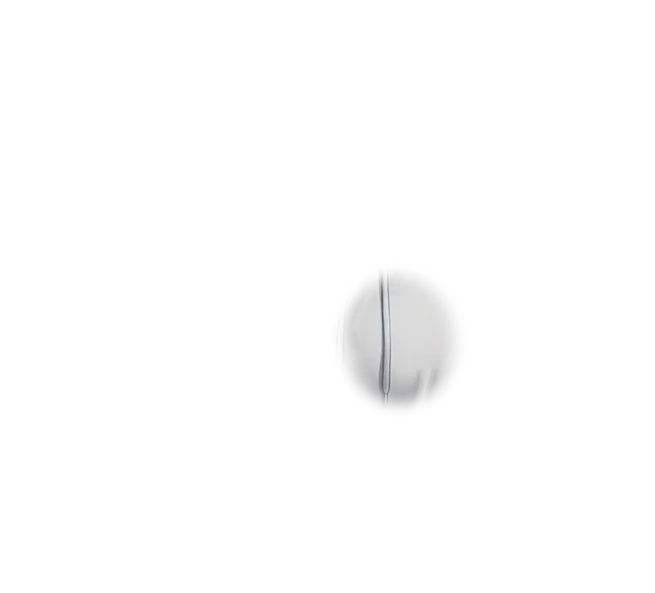
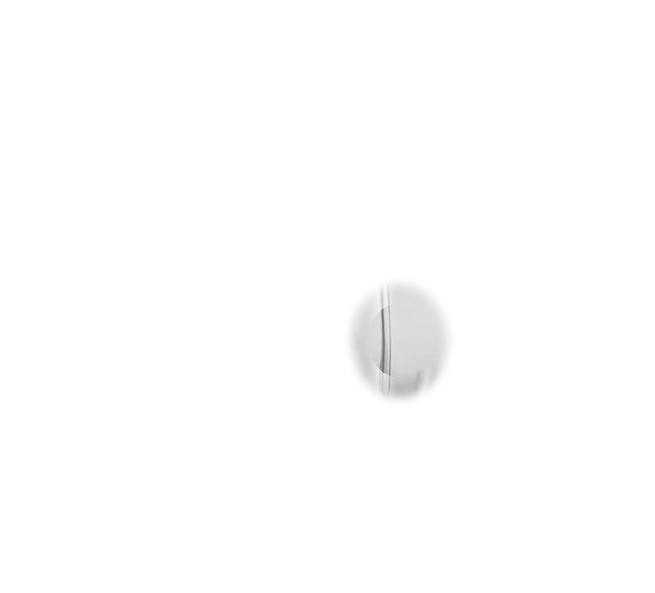
realism: эмоции дня 1 и 2 слоем глаз (полоса глаз), подгонка яркости/резкости, маска груди гасится у контуров ткани

Changed region(s): [[0.5191, 0.6071, 0.6718, 0.6981], [0.5496, 0.4553, 0.6107, 0.516], [0.5191, 0.516, 0.5496, 0.5767]]

diff --git a/index.html b/index.html
@@ -1007,31 +1007,31 @@ main{
    поэтому переход между ними линейный и не видно ступенек. */
 @keyframes chestJiggle{
   0% { transform:translateY(0.000%) scale(1.0000, 1.0000); }
-  4% { transform:translateY(0.932%) scale(0.9667, 1.0577); }
-  8% { transform:translateY(1.341%) scale(0.9521, 1.0830); }
-  12% { transform:translateY(1.264%) scale(0.9549, 1.0782); }
-  16% { transform:translateY(0.860%) scale(0.9693, 1.0532); }
-  20% { transform:translateY(0.334%) scale(0.9881, 1.0207); }
-  24% { transform:translateY(-0.134%) scale(1.0048, 0.9917); }
-  28% { transform:translateY(-0.431%) scale(1.0154, 0.9733); }
-  32% { transform:translateY(-0.525%) scale(1.0187, 0.9675); }
-  36% { transform:translateY(-0.447%) scale(1.0160, 0.9723); }
-  40% { transform:translateY(-0.268%) scale(1.0096, 0.9834); }
-  44% { transform:translateY(-0.066%) scale(1.0024, 0.9959); }
-  48% { transform:translateY(0.096%) scale(0.9966, 1.0060); }
-  52% { transform:translateY(0.186%) scale(0.9934, 1.0115); }
-  56% { transform:translateY(0.199%) scale(0.9929, 1.0123); }
-  60% { transform:translateY(0.153%) scale(0.9945, 1.0095); }
-  64% { transform:translateY(0.078%) scale(0.9972, 1.0048); }
-  68% { transform:translateY(0.003%) scale(0.9999, 1.0002); }
-  72% { transform:translateY(-0.051%) scale(1.0018, 0.9968); }
-  76% { transform:translateY(-0.076%) scale(1.0027, 0.9953); }
-  80% { transform:translateY(-0.073%) scale(1.0026, 0.9955); }
-  84% { transform:translateY(-0.050%) scale(1.0018, 0.9969); }
-  88% { transform:translateY(-0.020%) scale(1.0007, 0.9987); }
-  92% { transform:translateY(0.007%) scale(0.9998, 1.0004); }
-  96% { transform:translateY(0.024%) scale(0.9991, 1.0015); }
-  100% { transform:translateY(0.030%) scale(0.9989, 1.0019); }
+  4% { transform:translateY(1.118%) scale(0.9600, 1.0692); }
+  8% { transform:translateY(1.609%) scale(0.9425, 1.0996); }
+  12% { transform:translateY(1.517%) scale(0.9459, 1.0938); }
+  16% { transform:translateY(1.032%) scale(0.9632, 1.0638); }
+  20% { transform:translateY(0.401%) scale(0.9857, 1.0248); }
+  24% { transform:translateY(-0.161%) scale(1.0058, 0.9900); }
+  28% { transform:translateY(-0.517%) scale(1.0185, 0.9680); }
+  32% { transform:translateY(-0.630%) scale(1.0224, 0.9610); }
+  36% { transform:translateY(-0.536%) scale(1.0192, 0.9668); }
+  40% { transform:translateY(-0.322%) scale(1.0115, 0.9801); }
+  44% { transform:translateY(-0.079%) scale(1.0029, 0.9951); }
+  48% { transform:translateY(0.115%) scale(0.9959, 1.0072); }
+  52% { transform:translateY(0.223%) scale(0.9921, 1.0138); }
+  56% { transform:translateY(0.239%) scale(0.9915, 1.0148); }
+  60% { transform:translateY(0.184%) scale(0.9934, 1.0114); }
+  64% { transform:translateY(0.094%) scale(0.9966, 1.0058); }
+  68% { transform:translateY(0.004%) scale(0.9999, 1.0002); }
+  72% { transform:translateY(-0.061%) scale(1.0022, 0.9962); }
+  76% { transform:translateY(-0.091%) scale(1.0032, 0.9944); }
+  80% { transform:translateY(-0.088%) scale(1.0031, 0.9946); }
+  84% { transform:translateY(-0.060%) scale(1.0022, 0.9963); }
+  88% { transform:translateY(-0.024%) scale(1.0008, 0.9984); }
+  92% { transform:translateY(0.008%) scale(0.9998, 1.0005); }
+  96% { transform:translateY(0.029%) scale(0.9989, 1.0018); }
+  100% { transform:translateY(0.036%) scale(0.9987, 1.0023); }
 }
 .hero .art-chest.hit i{ animation:chestJiggle 1.5s linear; }
 /* дыхание: на 4-й стадии грудь тяжелее — дышит заметнее */
@@ -1837,7 +1837,8 @@ function emoPath(day, tag, mood){
   if (!ART_REAL) return `assets/art_emo_${day === '2' ? 'day2_' : ''}${tag}_${mood}${window.innerWidth > 900 ? '_lg' : ''}.webp`;
   /* день 2: эмоция — отдельный слой ЛИЦА (не весь кадр): поза и свет не меняются,
      поэтому смена мимики не дёргает тело */
-  return day === '2' ? `${ART_DIR}art_real_face_day2_${tag}_${mood}.webp` : `${ART_DIR}art_real_emo_${tag}_${mood}.webp`;
+  if (day === '1' || day === '2') return `${ART_DIR}art_real_face_day${day}_${tag}_${mood}.webp`;
+  return `${ART_DIR}art_real_emo_${tag}_${mood}.webp`;
 }
 const CHEST_BOX = { x0:0.22, y0:0.12, x1:0.78, y1:0.50 };
 

diff --git a/tools/prep_eyes.py b/tools/prep_eyes.py
@@ -54,6 +54,7 @@ EYES = {
     '2sg4': ((0.175, 0.555, 0.295, 0.645), (0.325, 0.455, 0.465, 0.545)),
 }
 MOODS = ('blink', 'shy')
+BAND_FEATHER = 0.22   # растушёвка полосы глаз
 EYE_GROW = 1.22        # маска глаза: сам глаз + уголки, не залезая на бровь
 EYE_FEATHER = 0.40
 CHEEK_GROW = 1.15      # щёки — в долях глаза
@@ -70,8 +71,8 @@ def _shift(ref, gen, b):
     h, w = rx.shape
     gx0, gy0, gx1, gy1 = int(b[0]), int(b[1]), int(b[2]), int(b[3])
     ew, eh = gx1 - gx0, gy1 - gy0
-    wx0, wy0 = max(0, gx0 - ew), max(0, gy0 - eh)
-    wx1, wy1 = min(w, gx1 + ew), min(h, gy1 + eh)
+    wx0, wy0 = max(0, gx0 - int(ew * 0.9)), max(0, gy0 - int(eh * 1.2))
+    wx1, wy1 = min(w, gx1 + int(ew * 0.9)), min(h, gy1 + int(eh * 1.2))
     tpl = rx[gy0:gy1, gx0:gx1]
     best = (1.0, 0, 0, -1.0)
     for f in (0.94, 0.96, 0.98, 1.0, 1.02, 1.04, 1.06):
@@ -85,6 +86,111 @@ def _shift(ref, gen, b):
         _, mx, _, loc = cv2.minMaxLoc(res)
         if mx > best[3]:
             best = (f, gx0 - (loc[0] + rx0), gy0 - (loc[1] + ry0), mx)
+    return best
+
+
+def match_low(gen, ref, radius=14.0, limit=9.0):
+    """Низкочастотная подгонка яркости генерата под базовый кадр.
+
+    Генератор иногда отдаёт лицо темнее (поза 2 дня 2 — заметно) — заплатка
+    читается как тень. Правим только медленную составляющую и не больше
+    +-limit уровней: иначе у волос появляется светлый ореол.
+    """
+    g = np.asarray(gen.convert('RGB')).astype(np.float32)
+    r = np.asarray(ref.convert('RGB')).astype(np.float32)
+    gb = cv2.GaussianBlur(g, (0, 0), radius)
+    rb = cv2.GaussianBlur(r, (0, 0), radius)
+    corr = np.clip(rb - gb, -limit, limit)
+    out = np.clip(g + corr, 0, 255).astype('uint8')
+    return Image.fromarray(out)
+
+
+def match_sharp(gen, ref, region):
+    """Подгонка резкости: генерат чётче базового арта (день 1 — мягкая рисовка).
+
+    Иначе заплатка выглядит «вклеенной»: у неё зерно мельче, чем у кадра.
+    """
+    g = np.asarray(gen.convert('L')).astype(np.float32)
+    r = np.asarray(ref.convert('L')).astype(np.float32)
+    x0, y0, x1, y1 = [int(v) for v in region]
+    vr = cv2.Laplacian(r[y0:y1, x0:x1], cv2.CV_32F).var()
+    vg = cv2.Laplacian(g[y0:y1, x0:x1], cv2.CV_32F).var()
+    if vg <= 0 or vr <= 0:
+        return gen
+    out = gen
+    sigma = 0.6
+    while vg > vr * 1.06 and sigma < 3.2:
+        out = gen.filter(ImageFilter.GaussianBlur(sigma))
+        vg = cv2.Laplacian(np.asarray(out.convert('L')).astype(np.float32), cv2.CV_32F).var()
+        sigma += 0.4
+    return out
+
+
+def band_box(key, tw, th, pad=0.10):
+    """Полоса обоих глаз в пикселях кропа: маска одна на всю пару.
+
+    Две отдельные маски оставляли снаружи кусочек базового века — он читался
+    как вторая ресница. Одна широкая полоса заменяет глазницу целиком.
+    """
+    bx = EYES[key]
+    x0 = min(b[0] for b in bx) * tw
+    x1 = max(b[2] for b in bx) * tw
+    y0 = min(b[1] for b in bx) * th
+    y1 = max(b[3] for b in bx) * th
+    w, h = x1 - x0, y1 - y0
+    return (x0 - pad * w * 0.5, y0 - h * 0.55, x1 + pad * w * 0.5, y1 + h * 0.55)
+
+
+def _shift_band(ref, gen, box):
+    """Сдвиг и масштаб по полосе глаз (шаблон = вся глазница целиком)."""
+    a = np.asarray(ref.convert('L'), dtype=np.float32) / 255.0
+    g0 = np.asarray(gen.convert('L'), dtype=np.float32) / 255.0
+    x0, y0, x1, y1 = [int(v) for v in box]
+    tpl = a[y0:y1, x0:x1]
+    tw, th = tpl.shape[1], tpl.shape[0]
+    mx_shift = int(tw * 0.22)
+    my_shift = int(th * 0.55)
+    best = (1.0, 0, 0, 0.0)
+    for f in (0.96, 0.97, 0.98, 0.99, 1.0, 1.01, 1.02, 1.03, 1.04):
+        g = cv2.resize(g0, None, fx=f, fy=f, interpolation=cv2.INTER_LANCZOS4)
+        rx0, ry0 = max(0, x0 - mx_shift), max(0, y0 - my_shift)
+        rx1, ry1 = min(g.shape[1], x1 + mx_shift), min(g.shape[0], y1 + my_shift)
+        roi = g[ry0:ry1, rx0:rx1]
+        if roi.shape[0] < th + 4 or roi.shape[1] < tw + 4:
+            continue
+        r = cv2.matchTemplate(roi, tpl, cv2.TM_CCOEFF_NORMED)
+        _, mx, _, loc = cv2.minMaxLoc(r)
+        if mx > best[3]:
+            best = (f, x0 - (loc[0] + rx0), y0 - (loc[1] + ry0), mx)
+    return best
+
+
+def _nose_box(key, tw, th):
+    """Область носа и фильтрума: единственная зона, которая НЕ меняется от мимики."""
+    bx = EYES[key]
+    x0 = min(b[0] for b in bx) * tw
+    x1 = max(b[2] for b in bx) * tw
+    y0 = max(b[3] for b in bx) * th
+    eh = max((b[3] - b[1]) for b in bx) * th
+    cx = (x0 + x1) / 2
+    return (cx - (x1 - x0) * 0.34, y0 - eh * 0.10, cx + (x1 - x0) * 0.34, y0 + eh * 1.15)
+
+
+def _shift_nose(ref, gen, box):
+    """Сдвиг и масштаб генерата по носу (проверено глазами: лучше, чем (0,0))."""
+    a = np.asarray(ref.convert('L'), dtype=np.float32) / 255.0
+    x0, y0, x1, y1 = [int(v) for v in box]
+    tpl = a[y0:y1, x0:x1]
+    g0 = np.asarray(gen.convert('L'), dtype=np.float32) / 255.0
+    best = (1.0, 0, 0, 0.0)
+    for f in (0.96, 0.97, 0.98, 0.99, 1.0, 1.01, 1.02, 1.03, 1.04):
+        g = cv2.resize(g0, None, fx=f, fy=f, interpolation=cv2.INTER_LANCZOS4)
+        if g.shape[0] <= tpl.shape[0] or g.shape[1] <= tpl.shape[1]:
+            continue
+        r = cv2.matchTemplate(g, tpl, cv2.TM_CCOEFF_NORMED)
+        _, mx, _, loc = cv2.minMaxLoc(r)
+        if mx > best[3]:
+            best = (f, x0 - loc[0], y0 - loc[1], mx)
     return best
 
 
@@ -113,26 +219,25 @@ def build(day, tag, mood, debug=False):
     gen = Image.open(src).convert('RGB').resize((tw, th), Image.LANCZOS)
     # генерат мягче базового арта (820 px -> кроп кадра): возвращаем ту же резкость,
     # иначе под маской видна «замыленная» кожа
-    gen = gen.filter(ImageFilter.UnsharpMask(radius=1.6, percent=70, threshold=2))
+    gen = match_low(gen, ref)
+    gen = match_sharp(gen, ref, _nose_box(key, tw, th))
 
     canvas = Image.new('RGBA', (tw, th), (0, 0, 0, 0))
     log = []
-    for b in EYES[key]:
-        e = (b[0] * tw, b[1] * th, b[2] * tw, b[3] * th)
-        # вставка строго в (0,0): кадр у генератора тот же, а любой автоподбор
-        # сдвига по закрытому глазу уводил мимику в сторону (проверено на 2sg2/2sg3)
-        dx = dy = 0
-        log.append('в (0,0)')
-        cx, cy = (e[0] + e[2]) / 2, (e[1] + e[3]) / 2
-        rx, ry = (e[2] - e[0]) / 2 * EYE_GROW, (e[3] - e[1]) / 2 * EYE_GROW * 1.15
-        # центр маски выше середины глаза: иначе верхнее веко базового кадра
-        # остаётся снаружи маски и рядом с новой линией читается как вторая ресница
-        cy -= ry * 0.10
-        m = _ell((tw, th), cx, cy, rx, max(ry, rx * 0.40), min(rx, ry) * EYE_FEATHER)
-        layer = Image.new('RGBA', (tw, th), (0, 0, 0, 0))
-        layer.paste(gen, (0, 0))
-        layer.putalpha(m)
-        canvas.alpha_composite(layer)
+    B = band_box(key, tw, th)   # уже в пикселях кропа
+    f, dx, dy, score = _shift_band(ref, gen, B)
+    if score < 0.60:
+        f, dx, dy = 1.0, 0, 0
+    g2 = gen.resize((round(tw * f), round(th * f)), Image.LANCZOS) if f != 1.0 else gen
+    log.append(f'{f:.2f}[{dx},{dy}]{score:.2f}')
+
+    m = Image.new('L', (tw, th), 0)
+    ImageDraw.Draw(m).ellipse(B, fill=255)
+    m = m.filter(ImageFilter.GaussianBlur(max(3, int(min(B[2] - B[0], B[3] - B[1]) * BAND_FEATHER))))
+    layer = Image.new('RGBA', (tw, th), (0, 0, 0, 0))
+    layer.paste(g2, (dx, dy))
+    layer.putalpha(m)
+    canvas.alpha_composite(layer)
 
     if mood == 'shy':
         # щёки: кожа ровная — сюда можно класть содержимое генерата широко и мягко
@@ -144,7 +249,7 @@ def build(day, tag, mood, debug=False):
             rx, ry = ew * 0.52 * CHEEK_GROW, eh * 0.62 * CHEEK_GROW
             m = _ell((tw, th), cx, cy, rx, ry, min(rx, ry) * CHEEK_FEATHER)
             layer = Image.new('RGBA', (tw, th), (0, 0, 0, 0))
-            layer.paste(gen, (0, 0))
+            layer.paste(g2, (dx, dy))
             layer.putalpha(m)
             canvas.alpha_composite(layer)
 

diff --git a/tools/prep_light.py b/tools/prep_light.py
@@ -57,7 +57,7 @@ def _bust_mask(size, cx, cy, rx, ry):
     return Image.fromarray(np.maximum(np.array(hull), np.array(core)))
 
 
-def _bulge_mask(size, cx, cy, rx, ry):
+def _bulge_mask(size, cx, cy, rx, ry, img=None):
     """Маска груди для физики: ядро по округлости + широкая растушёвка наружу.
 
     Прокола в кадре больше нет, поэтому маска может быть свободнее: она ложится
@@ -66,10 +66,29 @@ def _bulge_mask(size, cx, cy, rx, ry):
     """
     # ядро — только сама округлость, растушёвка гаснет ДО контура груди:
     # иначе маска заезжает на рукав и тянет ткань, которой двигаться незачем
-    core = _ellipse_mask(size, cx, cy, rx, ry, 0.62)
-    soft = _ellipse_mask(size, cx, cy, rx, ry, 0.90)
-    soft = soft.filter(ImageFilter.GaussianBlur(max(2, int(min(rx, ry) * 0.13))))
-    return Image.fromarray(np.maximum(np.array(core), np.array(soft)))
+    core = _ellipse_mask(size, cx, cy, rx, ry, 0.54)
+    soft = _ellipse_mask(size, cx, cy, rx, ry, 0.80)
+    soft = soft.filter(ImageFilter.GaussianBlur(max(2, int(min(rx, ry) * 0.10))))
+    core_a = np.array(core).astype(np.float32) / 255.0
+    soft_a = np.array(soft).astype(np.float32) / 255.0
+    m = np.maximum(core_a, soft_a)
+
+    if img is not None:
+        # маска гаснет там, где в кадре проходит контур: кромка одежды, рукав,
+        # шов. Иначе эти пиксели уезжают вместе с грудью и край ткани «дышит»
+        g = np.asarray(img.convert('L').filter(ImageFilter.GaussianBlur(1.2)), dtype=np.float32)
+        gx = np.zeros_like(g); gy = np.zeros_like(g)
+        gx[:, 1:-1] = g[:, 2:] - g[:, :-2]
+        gy[1:-1, :] = g[2:, :] - g[:-2, :]
+        mag = np.hypot(gx, gy)
+        edge = (mag > 26).astype(np.float32) * 255.0
+        edge = np.asarray(Image.fromarray(edge.astype('uint8'), 'L')
+                          .filter(ImageFilter.MaxFilter(7))
+                          .filter(ImageFilter.GaussianBlur(6)), dtype=np.float32) / 255.0
+        # гасим у контуров только растушёвку; ядро внутри груди остаётся целым,
+        # иначе внутренние складки ткани съедают всю маску и движение пропадает
+        m = np.maximum(core_a * 0.92, soft_a * (1.0 - 0.92 * edge))
+    return Image.fromarray((np.clip(m, 0, 1) * 255).astype('uint8'), 'L')
 
 
 def _hole_k(rx, ry, box_h):

diff --git a/tools/prep_real_chest.py b/tools/prep_real_chest.py
@@ -54,7 +54,7 @@ def chest_patch(tag):
         my = (cy - y0) / (y1 - y0) * mh
         mrx = rx / (x1 - x0) * mw
         mry = ry / (y1 - y0) * mh
-        mask = PL._bulge_mask((mw, mh), mx, my, mrx, mry)
+        mask = PL._bulge_mask((mw, mh), mx, my, mrx, mry, crop)
         arr = np.array(crop)
         arr[..., 3] = (np.array(mask).astype(np.float32) * (arr[..., 3].astype(np.float32) / 255)).astype('uint8')
         rgb = Image.fromarray(arr[..., :3].astype('uint8')).filter(ImageFilter.GaussianBlur(9))

diff --git a/tools/prep_real_d2_chest.py b/tools/prep_real_d2_chest.py
@@ -59,7 +59,7 @@ def chest_patch(tag):
         my = (cy - y0) / (y1 - y0) * mh
         mrx = rx / (x1 - x0) * mw
         mry = ry / (y1 - y0) * mh
-        mask = PL._bulge_mask((mw, mh), mx, my, mrx, mry)
+        mask = PL._bulge_mask((mw, mh), mx, my, mrx, mry, crop)
         arr = np.array(crop)
         arr[..., 3] = (np.array(mask).astype(np.float32) * (arr[..., 3].astype(np.float32) / 255)).astype('uint8')
         rgb = Image.fromarray(arr[..., :3].astype('uint8')).filter(ImageFilter.GaussianBlur(9))
